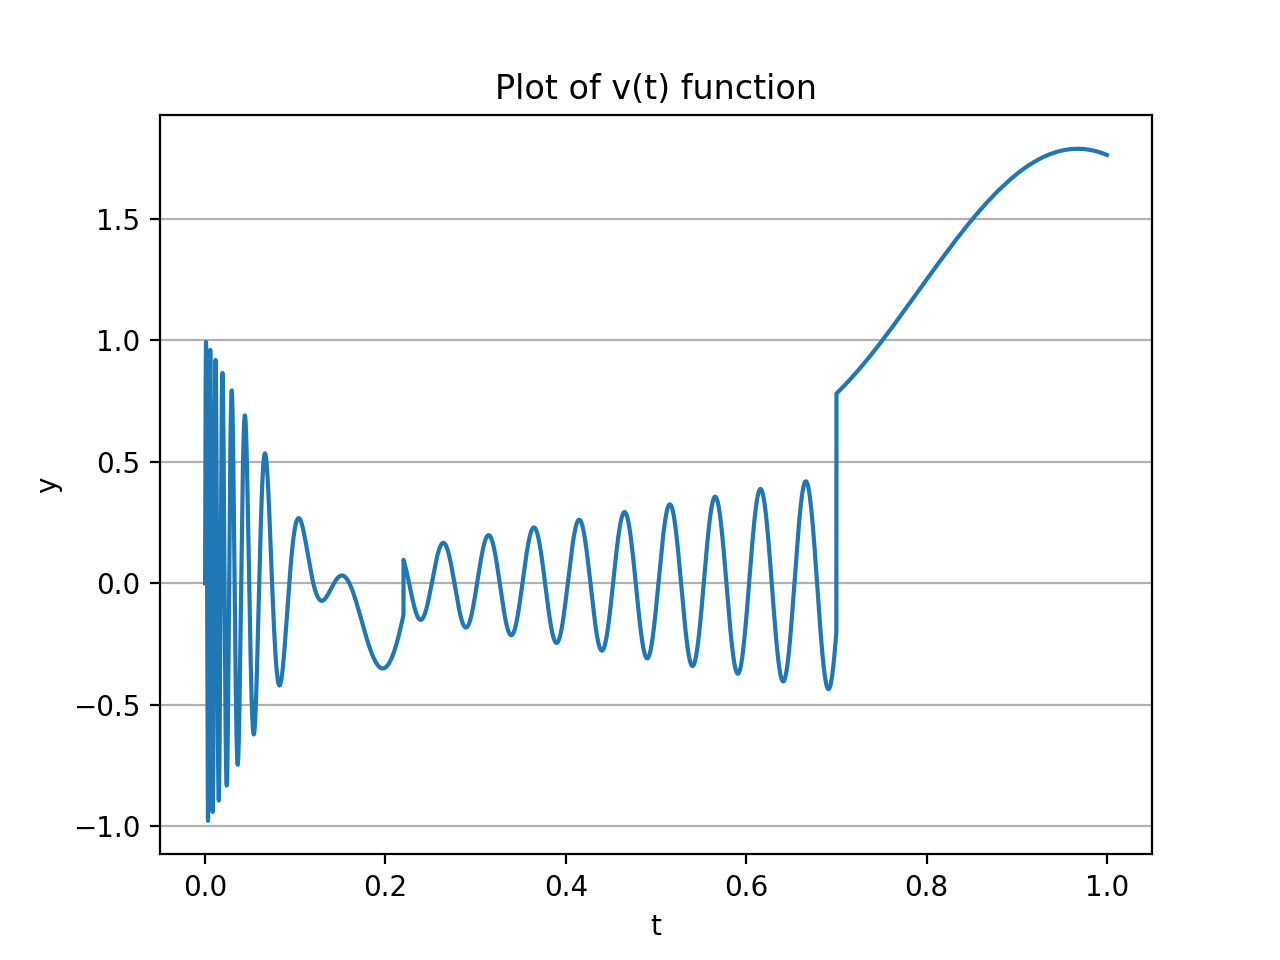
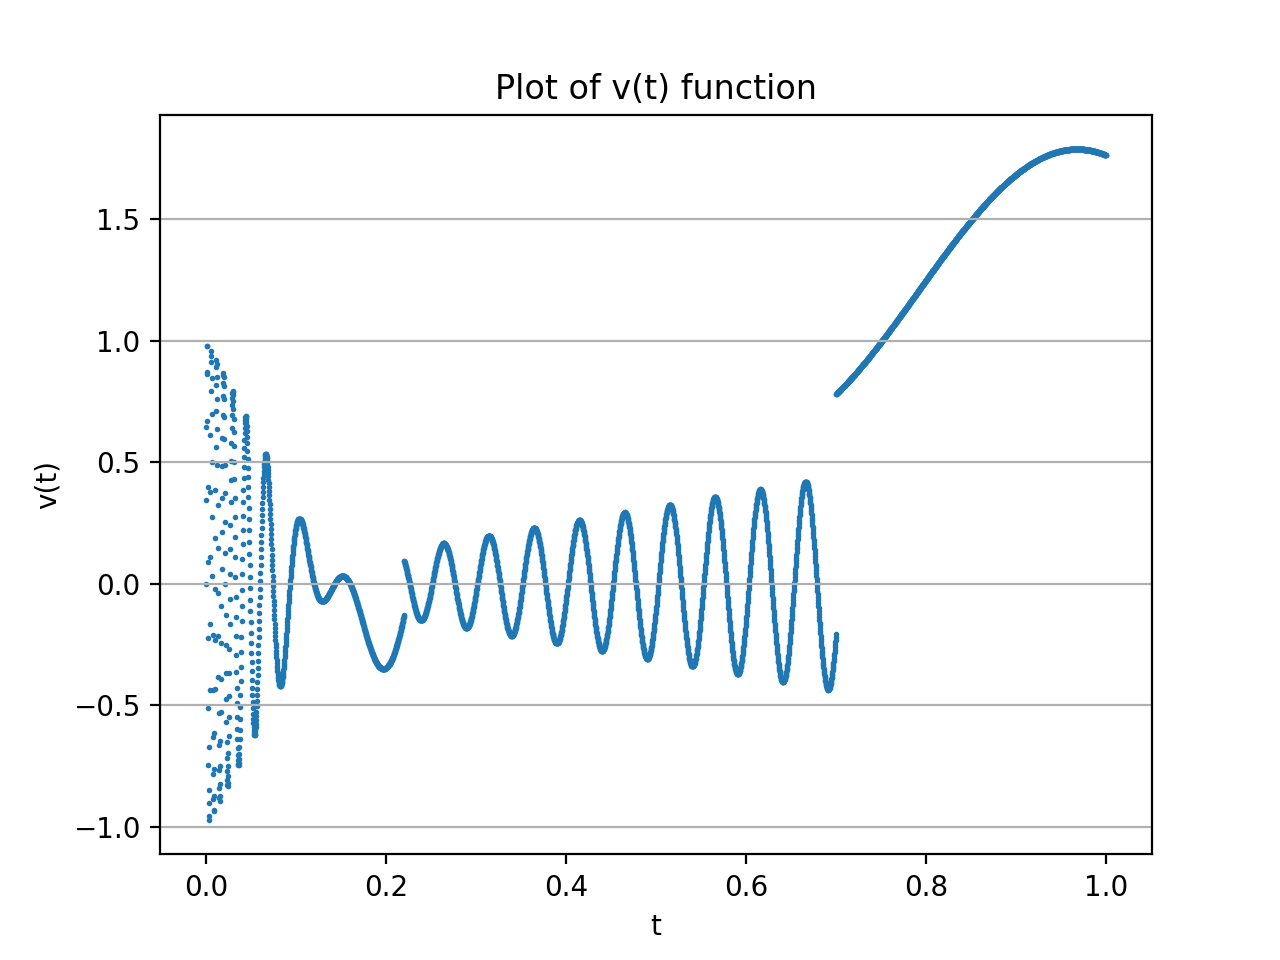
Updates charts, so they show points instead of lines + add decimation;

diff --git a/LAB_01/chartDrawing.py b/LAB_01/chartDrawing.py
@@ -2,14 +2,16 @@ import matplotlib.pyplot as plt
 import numpy as np
 
 functionNames = ('x', 'y', 'z', 'u', 'v', 'p2', 'p4', 'pAB')
+decimation = 5
 
 def drawPlot(functionName):
     t, y = np.loadtxt('Outputs/' + functionName + '.csv', delimiter=',', unpack=True, skiprows = 1)
     plt.clf()
-    plt.plot(t, y, color='tab:blue')
+
+    plt.scatter(t[::decimation], y[::decimation], 1, color='tab:blue', )
     plt.title('Plot of ' + functionName + '(t) function')
     plt.xlabel('t')
-    plt.ylabel('y')
+    plt.ylabel(functionName + '(t)')
     plt.grid(axis='y')
     plt.savefig('Charts/' + functionName + '.png', dpi=200)
 
